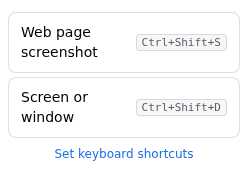
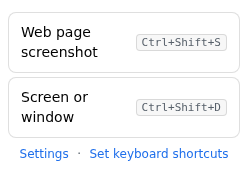
feat(complaint): modal with text input + dictation; prompt references numbered boxes
- The Complaint button now opens a modal with a text box and a record button: type the
  complaint directly, or dictate (recording → whisper-1 transcription is appended into the
  box). A Generate button writes the title + body from the text and screenshots, and can be
  run repeatedly. The modal keeps its content between opens within the page; Esc / the close
  button / clicking the backdrop close it.
- Default complaint prompt now instructs the model to reference numbered boxes by number
  when present (e.g. "in screenshot 1, box #1 …"), in all three locales and the lib
  fallback. Applies automatically to users who haven't customized the prompt.
- Drop the "(voice)" suffix from the Complaint label (it's text + voice now).
- Tests: smoke covers the modal (opens with text/record/generate, content persists on
  reopen). Editor screenshot refreshed; README (en/zh/ja) updated.

Changed region(s): [[0.0847, 0.843, 0.9315, 0.9593]]

diff --git a/src/lib/i18n.ts b/src/lib/i18n.ts
@@ -157,7 +157,7 @@ const MESSAGES: Record<string, Record<string, string>> = {
     aiPromptRestore: 'Restore default prompt',
     aiTitlePromptDefault: 'You write concise, specific issue titles. Read the report below and return ONLY the title: a single line, no surrounding quotes, no trailing punctuation, at most about 80 characters. Write the title in the same language as the description.',
     aiComplaintPromptLabel: 'Complaint prompt (voice)',
-    aiComplaintPromptDefault: "You turn a user's spoken complaint and screenshots into a clear software issue. Write a concise, specific title and a well-structured Markdown body (what happened, where it happened, steps if any, and expected vs. actual). Write in the same language as the complaint. Return ONLY a JSON object with string fields \"title\" and \"body\".",
+    aiComplaintPromptDefault: "You turn a user's complaint and screenshots into a clear software issue. Write a concise, specific title and a well-structured Markdown body (what happened, where it happened, steps if any, and expected vs. actual). If a screenshot has numbered boxes (circled numbers), refer to them by number in the description, e.g. \"in screenshot 1, box #1 …\". Write in the same language as the complaint. Return ONLY a JSON object with string fields \"title\" and \"body\".",
     aiUsage: 'Usage',
     aiUsage5h: '5-hour window',
     aiUsageWeek: 'Weekly',
@@ -174,9 +174,15 @@ const MESSAGES: Record<string, Record<string, string>> = {
     aiTitleNeedBody: 'Add a description first so the AI has something to work with.',
     aiTitleFailed: 'AI title failed: {0}',
     // Voice complaint
-    complaint: 'Complaint (voice)',
-    complaintTitle: 'Record a complaint; AI writes the title and description from it and the screenshots',
-    complaintRecording: '■ Stop & generate',
+    complaint: 'Complaint',
+    complaintTitle: 'Describe a complaint (type or dictate); AI writes the title and description',
+    complaintModalTitle: 'Complaint',
+    complaintPlaceholder: 'Type your complaint, or use the record button to dictate. Numbered boxes in the screenshots can be referenced by number.',
+    complaintRecordStart: '🎤 Record',
+    complaintRecordStop: '■ Stop & transcribe',
+    complaintGenerate: 'Generate title & description',
+    complaintNeedText: 'Type or record something first.',
+    complaintDone: 'Done — title and description filled.',
     complaintTranscribing: 'Transcribing…',
     complaintGenerating: 'Writing issue…',
     complaintFailed: 'Complaint failed: {0}',
@@ -341,7 +347,7 @@ const MESSAGES: Record<string, Record<string, string>> = {
     aiPromptRestore: '恢复默认提示词',
     aiTitlePromptDefault: '你负责撰写简洁、具体的 issue 标题。阅读下面的报告，只返回标题本身：一行、不要加引号、结尾不要标点、不超过约 40 个字。使用与描述相同的语言撰写标题。',
     aiComplaintPromptLabel: '抱怨提示词（语音）',
-    aiComplaintPromptDefault: '你要把用户口述的抱怨和截图整理成一个清晰的软件 issue。撰写简洁、具体的标题，以及结构良好的 Markdown 正文（发生了什么、在哪里、复现步骤（如有）、期望与实际）。使用与抱怨相同的语言。只返回一个包含字符串字段 "title" 和 "body" 的 JSON 对象。',
+    aiComplaintPromptDefault: '你要把用户的抱怨和截图整理成一个清晰的软件 issue。撰写简洁、具体的标题，以及结构良好的 Markdown 正文（发生了什么、在哪里、复现步骤（如有）、期望与实际）。如果某张截图里有编号框（带圈数字），请在描述中结合编号说明，例如「第 1 张里的 1 号框……」。使用与抱怨相同的语言。只返回一个包含字符串字段 "title" 和 "body" 的 JSON 对象。',
     aiUsage: '用量',
     aiUsage5h: '5 小时窗口',
     aiUsageWeek: '每周',
@@ -358,9 +364,15 @@ const MESSAGES: Record<string, Record<string, string>> = {
     aiTitleNeedBody: '请先填写描述，AI 才能据此生成。',
     aiTitleFailed: 'AI 生成标题失败：{0}',
     // 语音抱怨
-    complaint: '抱怨（语音）',
-    complaintTitle: '录下你的抱怨，AI 据此结合截图撰写标题和正文',
-    complaintRecording: '■ 停止并生成',
+    complaint: '抱怨',
+    complaintTitle: '描述你的抱怨（可打字或语音），AI 据此生成标题和正文',
+    complaintModalTitle: '抱怨',
+    complaintPlaceholder: '输入你的抱怨，或点录音按钮口述。截图里的编号框可以按编号引用。',
+    complaintRecordStart: '🎤 录音',
+    complaintRecordStop: '■ 停止并转写',
+    complaintGenerate: '生成标题与正文',
+    complaintNeedText: '请先输入或录入内容。',
+    complaintDone: '已生成——标题与正文已填入。',
     complaintTranscribing: '识别中…',
     complaintGenerating: '撰写中…',
     complaintFailed: '抱怨失败：{0}',
@@ -524,7 +536,7 @@ const MESSAGES: Record<string, Record<string, string>> = {
     aiPromptRestore: '既定のプロンプトに戻す',
     aiTitlePromptDefault: 'あなたは簡潔で具体的な issue タイトルを書きます。下記のレポートを読み、タイトルのみを返してください：1 行、引用符なし、末尾の句読点なし、最大 80 文字程度。説明と同じ言語でタイトルを書いてください。',
     aiComplaintPromptLabel: 'クレーム用プロンプト（音声）',
-    aiComplaintPromptDefault: 'ユーザーの話したクレームとスクリーンショットを、明確なソフトウェア issue にまとめます。簡潔で具体的なタイトルと、整理された Markdown 本文（何が・どこで起きたか、再現手順があれば、期待と実際）を書いてください。クレームと同じ言語で書いてください。文字列フィールド "title" と "body" を持つ JSON オブジェクトのみを返してください。',
+    aiComplaintPromptDefault: 'ユーザーのクレームとスクリーンショットを、明確なソフトウェア issue にまとめます。簡潔で具体的なタイトルと、整理された Markdown 本文（何が・どこで起きたか、再現手順があれば、期待と実際）を書いてください。スクリーンショットに番号付き枠（丸囲み数字）がある場合は、説明で番号を用いて参照してください（例：「1 枚目の枠 #1 は……」）。クレームと同じ言語で書いてください。文字列フィールド "title" と "body" を持つ JSON オブジェクトのみを返してください。',
     aiUsage: '使用量',
     aiUsage5h: '5 時間枠',
     aiUsageWeek: '週間',
@@ -541,9 +553,15 @@ const MESSAGES: Record<string, Record<string, string>> = {
     aiTitleNeedBody: 'まず説明を入力してください。AI がそれを基に生成します。',
     aiTitleFailed: 'AI タイトル生成に失敗しました：{0}',
     // 音声クレーム
-    complaint: 'クレーム（音声）',
-    complaintTitle: 'クレームを録音し、AI がスクリーンショットと併せてタイトルと本文を作成します',
-    complaintRecording: '■ 停止して生成',
+    complaint: 'クレーム',
+    complaintTitle: 'クレームを記述（入力または音声）。AI がタイトルと本文を作成します',
+    complaintModalTitle: 'クレーム',
+    complaintPlaceholder: 'クレームを入力するか、録音ボタンで口述してください。スクリーンショット内の番号付き枠は番号で参照できます。',
+    complaintRecordStart: '🎤 録音',
+    complaintRecordStop: '■ 停止して文字起こし',
+    complaintGenerate: 'タイトルと本文を生成',
+    complaintNeedText: 'まず入力または録音してください。',
+    complaintDone: '完了——タイトルと本文を入力しました。',
     complaintTranscribing: '文字起こし中…',
     complaintGenerating: '作成中…',
     complaintFailed: 'クレームに失敗しました：{0}',

diff --git a/src/editor.ts b/src/editor.ts
@@ -50,6 +50,12 @@ const els = {
   aiModel: $('aiModel') as HTMLSelectElement,
   aiTitle: $('aiTitle') as HTMLButtonElement,
   complaint: $('complaint') as HTMLButtonElement,
+  complaintModal: $('complaintModal'),
+  complaintClose: $('complaintClose') as HTMLButtonElement,
+  complaintText: $('complaintText') as HTMLTextAreaElement,
+  complaintRecord: $('complaintRecord') as HTMLButtonElement,
+  complaintGenerate: $('complaintGenerate') as HTMLButtonElement,
+  complaintStatus: $('complaintStatus'),
   body: $('body') as HTMLTextAreaElement,
   submit: $('submit') as HTMLButtonElement,
   submitNoImage: $('submitNoImage') as HTMLButtonElement,
@@ -289,10 +295,8 @@ async function refreshAiButton(): Promise<void> {
   const auth = await getAiAuth();
   els.aiTitle.disabled = !auth;
   els.aiTitle.title = auth ? t('aiTitleTitle') : t('aiTitleNeedConnect');
-  if (!recording) {
-    els.complaint.disabled = !auth;
-    els.complaint.title = auth ? t('complaintTitle') : t('aiTitleNeedConnect');
-  }
+  els.complaint.disabled = !auth;
+  els.complaint.title = auth ? t('complaintTitle') : t('aiTitleNeedConnect');
   // Model picker: same options as Settings, kept in sync (auth.model is shared).
   const models = auth && auth.models && auth.models.length ? auth.models : [];
   if (models.length) {
@@ -314,22 +318,47 @@ els.aiModel.addEventListener('change', () => {
   void patchAiAuth({ model: els.aiModel.value });
 });
 
-// ---- Voice "Complaint": record → transcribe → AI writes title + body ----
+// ---- Complaint modal: type or dictate → transcribe → AI writes title + body ----
+// The modal content is NOT cleared between opens (within the page), and Generate can be run
+// repeatedly.
 let recording = false;
 let mediaRecorder: MediaRecorder | null = null;
 let recordedChunks: Blob[] = [];
 
-els.complaint.addEventListener('click', async () => {
+function complaintModalOpen(): boolean {
+  return !els.complaintModal.classList.contains('hidden');
+}
+function openComplaintModal(): void {
+  els.complaintModal.classList.remove('hidden');
+  setComplaintStatus('');
+  setTimeout(() => els.complaintText.focus(), 0);
+}
+function closeComplaintModal(): void {
+  if (recording) stopRecording();
+  els.complaintModal.classList.add('hidden');
+}
+function setComplaintStatus(text: string, cls: 'info' | 'error' | 'ok' = 'info'): void {
+  els.complaintStatus.className = cls;
+  els.complaintStatus.textContent = text;
+}
+
+els.complaint.addEventListener('click', () => openComplaintModal()); // content persists
+els.complaintClose.addEventListener('click', () => closeComplaintModal());
+els.complaintModal.addEventListener('click', (e) => {
+  if (e.target === els.complaintModal) closeComplaintModal(); // click on the backdrop
+});
+
+// Record → transcribe → append into the text box (you can dictate several times + edit).
+els.complaintRecord.addEventListener('click', async () => {
   if (recording) {
     stopRecording();
     return;
   }
-  // Start recording.
   let stream: MediaStream;
   try {
     stream = await navigator.mediaDevices.getUserMedia({ audio: true });
   } catch {
-    setStatus(t('complaintMicDenied'), 'error');
+    setComplaintStatus(t('complaintMicDenied'), 'error');
     return;
   }
   recordedChunks = [];
@@ -339,16 +368,18 @@ els.complaint.addEventListener('click', async () => {
   };
   mediaRecorder.onstop = () => {
     stream.getTracks().forEach((tr) => tr.stop());
-    void processComplaint(new Blob(recordedChunks, { type: mediaRecorder?.mimeType || 'audio/webm' }));
+    void transcribeIntoBox(new Blob(recordedChunks, { type: mediaRecorder?.mimeType || 'audio/webm' }));
   };
   mediaRecorder.start();
   recording = true;
-  els.complaint.classList.add('recording');
-  els.complaint.textContent = t('complaintRecording');
+  els.complaintRecord.classList.add('recording');
+  els.complaintRecord.textContent = t('complaintRecordStop');
 });
 
 function stopRecording(): void {
   recording = false;
+  els.complaintRecord.classList.remove('recording');
+  els.complaintRecord.textContent = t('complaintRecordStart');
   try {
     mediaRecorder?.stop();
   } catch {
@@ -356,23 +387,38 @@ function stopRecording(): void {
   }
 }
 
-async function processComplaint(blob: Blob): Promise<void> {
-  els.complaint.classList.remove('recording');
-  els.complaint.disabled = true;
-  let transcript = '';
+async function transcribeIntoBox(blob: Blob): Promise<void> {
+  els.complaintRecord.disabled = true;
   try {
-    els.complaint.textContent = t('complaintTranscribing');
-    setStatus(t('complaintTranscribing'), 'info');
-    transcript = await transcribeAudio(blob);
-    if (!transcript) throw new Error('empty transcript');
+    setComplaintStatus(t('complaintTranscribing'));
+    const transcript = (await transcribeAudio(blob)).trim();
+    if (transcript) {
+      const cur = els.complaintText.value;
+      els.complaintText.value = cur ? cur.replace(/\s*$/, '') + '\n' + transcript : transcript;
+    }
+    setComplaintStatus('');
+  } catch (e) {
+    setComplaintStatus(t('complaintFailed', [e instanceof Error ? e.message : String(e)]), 'error');
+  } finally {
+    els.complaintRecord.disabled = false;
+  }
+}
 
-    els.complaint.textContent = t('complaintGenerating');
-    setStatus(t('complaintGenerating'), 'info');
+// Generate the issue title + body from the text box content + the screenshots. Repeatable.
+els.complaintGenerate.addEventListener('click', async () => {
+  const text = els.complaintText.value.trim();
+  if (!text) {
+    setComplaintStatus(t('complaintNeedText'), 'error');
+    return;
+  }
+  els.complaintGenerate.disabled = true;
+  try {
+    setComplaintStatus(t('complaintGenerating'));
     const images = await aiImages();
     const p = primary();
     const { title, body } = await generateComplaint(
       {
-        transcript,
+        transcript: text,
         type: els.type.value,
         pageTitle: p?.pageTitle,
         pageUrl: p?.pageUrl,
@@ -385,16 +431,13 @@ async function processComplaint(blob: Blob): Promise<void> {
       titleDirty = true;
     }
     if (body) els.body.value = body;
-    setStatus('', 'info');
+    setComplaintStatus(t('complaintDone'), 'ok'); // keep the modal open for another run
   } catch (e) {
-    // Don't lose the transcription if only the writing step failed.
-    if (transcript) els.body.value = (els.body.value ? els.body.value + '\n\n' : '') + transcript;
-    setStatus(t('complaintFailed', [e instanceof Error ? e.message : String(e)]), 'error');
+    setComplaintStatus(t('complaintFailed', [e instanceof Error ? e.message : String(e)]), 'error');
   } finally {
-    els.complaint.textContent = t('complaint');
-    els.complaint.disabled = false;
+    els.complaintGenerate.disabled = false;
   }
-}
+});
 
 els.aiTitle.addEventListener('click', async () => {
   if (!els.body.value.trim()) {
@@ -511,6 +554,10 @@ function showToast(message: string): void {
 
 window.addEventListener('keydown', (e) => {
   if (e.target === textInput) return; // the text-tool input manages its own keys
+  if (e.key === 'Escape' && complaintModalOpen()) {
+    closeComplaintModal();
+    return;
+  }
   if (e.key === 'Escape') {
     if (escArmed) {
       window.clearTimeout(escTimer);

diff --git a/src/editor.css b/src/editor.css
@@ -150,6 +150,19 @@ button.ghost {
 button.ghost:disabled { opacity: .5; cursor: not-allowed; color: var(--muted); }
 button.ghost.recording { color: #fff; background: var(--danger); border-color: var(--danger); }
 
+/* Complaint modal */
+.modal-overlay { position: fixed; inset: 0; background: #0007; display: flex; align-items: center; justify-content: center; z-index: 50; }
+.modal-overlay.hidden { display: none; }
+.modal { width: min(560px, 92vw); background: Canvas; color: CanvasText; border: 1px solid var(--border); border-radius: 10px; padding: 16px; box-shadow: 0 12px 40px #0006; }
+.modal-head { display: flex; align-items: center; justify-content: space-between; font-weight: 600; margin-bottom: 10px; }
+.modal-close { border: none; background: none; cursor: pointer; font-size: 16px; color: var(--muted); padding: 2px 6px; }
+.modal textarea { width: 100%; min-height: 120px; resize: vertical; padding: 10px; border: 1px solid var(--border); border-radius: 6px; background: Field; color: FieldText; font: inherit; box-sizing: border-box; }
+.modal-actions { display: flex; align-items: center; gap: 8px; margin-top: 12px; }
+.modal-actions .spacer { flex: 1; }
+#complaintStatus { margin-top: 10px; font-size: 13px; min-height: 18px; }
+#complaintStatus.error { color: var(--danger); }
+#complaintStatus.ok { color: var(--ok); }
+
 /* AI actions row (below the form) */
 .ai-actions { display: flex; gap: 8px; flex-wrap: wrap; align-items: center; margin-top: 16px; }
 .ai-actions select { width: auto; max-width: 200px; padding: 7px 8px; border-radius: 6px; border: 1px solid var(--border); background: Field; color: FieldText; font: inherit; }

diff --git a/src/lib/ai.ts b/src/lib/ai.ts
@@ -559,10 +559,12 @@ export const TRANSCRIBE_URL = 'https://chatgpt.com/backend-api/transcribe';
 export const TRANSCRIBE_MODEL = 'whisper-1';
 
 export const DEFAULT_COMPLAINT_PROMPT =
-  "You turn a user's spoken complaint and screenshots into a clear software issue. Write a " +
-  'concise, specific title and a well-structured Markdown body (what happened, where it ' +
-  'happened, steps if any, and expected vs. actual). Write in the same language as the ' +
-  'complaint. Return ONLY a JSON object with string fields "title" and "body".';
+  "You turn a user's complaint and screenshots into a clear software issue. Write a concise, " +
+  'specific title and a well-structured Markdown body (what happened, where it happened, ' +
+  'steps if any, and expected vs. actual). If a screenshot has numbered boxes (circled ' +
+  'numbers), refer to them by number in the description, e.g. "in screenshot 1, box #1 …". ' +
+  'Write in the same language as the complaint. Return ONLY a JSON object with string fields ' +
+  '"title" and "body".';
 
 /** Coerce the stored model to a valid one and persist any repair; returns [auth, model]. */
 async function healModelFor(auth: AiAuth, override?: string): Promise<{ auth: AiAuth; model: string }> {

diff --git a/src/editor.html b/src/editor.html
@@ -74,6 +74,23 @@
     </div>
   </div>
 
+  <!-- Complaint modal: type or dictate a complaint, then generate the title + body -->
+  <div class="modal-overlay hidden" id="complaintModal">
+    <div class="modal">
+      <div class="modal-head">
+        <span data-i18n="complaintModalTitle"></span>
+        <button class="modal-close" id="complaintClose" title="Esc">✕</button>
+      </div>
+      <textarea id="complaintText" data-i18n-placeholder="complaintPlaceholder"></textarea>
+      <div class="modal-actions">
+        <button id="complaintRecord" class="ghost" data-i18n="complaintRecordStart"></button>
+        <span class="spacer"></span>
+        <button id="complaintGenerate" class="primary" data-i18n="complaintGenerate"></button>
+      </div>
+      <div id="complaintStatus" class="info"></div>
+    </div>
+  </div>
+
   <script type="module" src="editor.js"></script>
 </body>
 </html>

diff --git a/README.ja.md b/README.ja.md
@@ -184,11 +184,15 @@ Codex の標準的な OAuth は `http://localhost:1455` のコールバックを
 します（組み込みのフォールバックあり）。生成に使うシステムプロンプトは設定で編集でき、「既定の
 プロンプトに戻す」ボタンで現在のインターフェース言語の既定値にリセットできます。
 
-**音声「クレーム」。**「クレーム」ボタンはマイクから録音し、ChatGPT サブスクリプション（`whisper-1`）
-で音声を文字起こしし、文字起こし・スクリーンショット・ページのメタデータからタイトルと Markdown
-本文を作成します（構造化 JSON 出力）。注意：この文字起こしエンドポイントは Codex デスクトップの
-非公開ルートで、ChatGPT セッショントークンのみを受け付けます（API key 不可）。そのためこの経路は
-ベストエフォートで変更される可能性があり、失敗した場合は録音が失われないよう文字起こしを本文に残します。キャプチャの失敗（画面キャプチャを含む）はシステム通知で表示されます。タイトル用プロンプトと同様、クレーム用のシステムプロンプトも設定で編集でき、それぞれ「既定のプロンプトに戻す」ボタンがあります。
+**「クレーム」。**「クレーム」ボタンはダイアログを開き、クレームを**入力**するか**録音して口述**できます
+（録音は ChatGPT サブスクリプション `whisper-1` で文字起こしされます）。モデルはそのテキスト・
+スクリーンショット・ページのメタデータからタイトルと Markdown 本文を作成し（構造化 JSON 出力）、
+スクリーンショット内の**番号付き枠を番号で参照**します。ダイアログの内容は再オープン後も保持され、
+繰り返し生成できます。注意：この文字起こしエンドポイントは Codex デスクトップの非公開ルートで、
+ChatGPT セッショントークンのみを受け付けます（API key 不可）。そのため口述の文字起こしはベスト
+エフォートで変更される可能性があります（入力は常に利用可能）。キャプチャの失敗（画面キャプチャを含む）
+はシステム通知で表示されます。タイトル用プロンプトと同様、クレーム用のシステムプロンプトも設定で
+編集でき、それぞれ「既定のプロンプトに戻す」ボタンがあります。
 
 > 注意：本アシスタントは変更される可能性のある文書化されていない `chatgpt.com` のエンドポイントと
 > 通信し、お使いのアカウントに対する OpenAI の規約が適用されます。トークンは `chrome.storage.local`

diff --git a/README.md b/README.md
@@ -188,14 +188,15 @@ fetched dynamically from the Codex models endpoint (with a curated fallback). Th
 prompt is editable in Settings, with a **Restore default prompt** button that resets it to
 the current interface language's default.
 
-**Voice “Complaint”.** The **Complaint** button records from your microphone, transcribes
-the audio with your ChatGPT subscription (`whisper-1`), then asks the model to write a
-title and a Markdown body from the transcript, the screenshots, and the page metadata
-(structured JSON output). Note: the transcription endpoint is a Codex Desktop route that is
-undocumented and accepts only the ChatGPT session token (not an API key), so this path is
-best-effort and may change; if it fails, the transcript is kept in the description so the
-recording is not lost. Capture failures (including screen capture) are shown as a system
-notification. Like the title prompt, the complaint system prompt is editable in Settings,
+**“Complaint”.** The **Complaint** button opens a dialog where you type a complaint or
+dictate it (recording is transcribed with your ChatGPT subscription, `whisper-1`). The
+model then writes a title and a Markdown body from that text, the screenshots, and the page
+metadata (structured JSON output), referencing any numbered boxes in the screenshots. The
+dialog keeps its content between opens and can generate repeatedly. Note: the transcription
+endpoint is a Codex Desktop route that is undocumented and accepts only the ChatGPT session
+token (not an API key), so dictation is best-effort and may change (typing always works).
+Capture failures (including screen capture) are shown as a system notification. Like the
+title prompt, the complaint system prompt is editable in Settings,
 each with its own **Restore default prompt** button.
 
 > Note: the assistant talks to undocumented `chatgpt.com` endpoints that may change, and is
